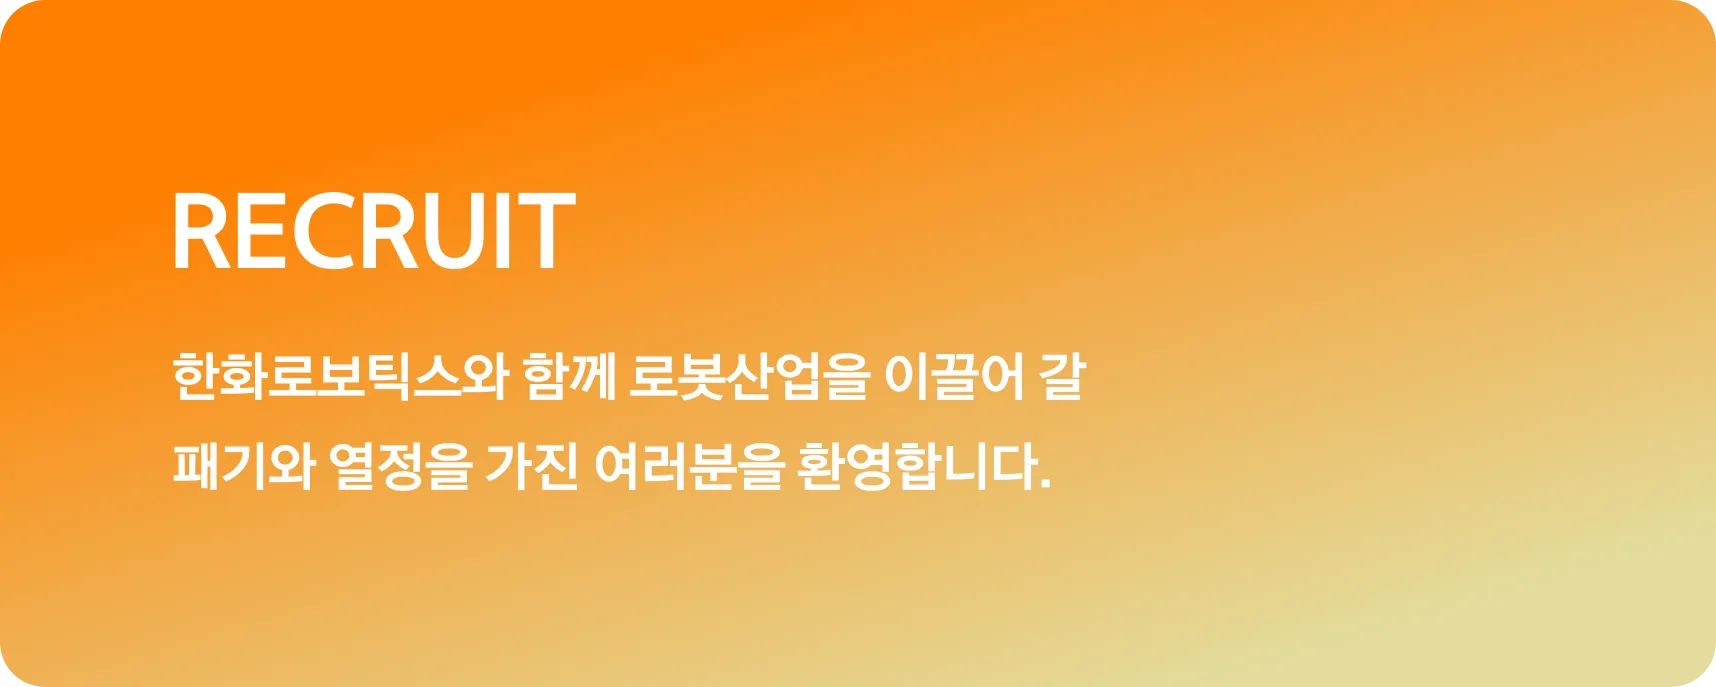
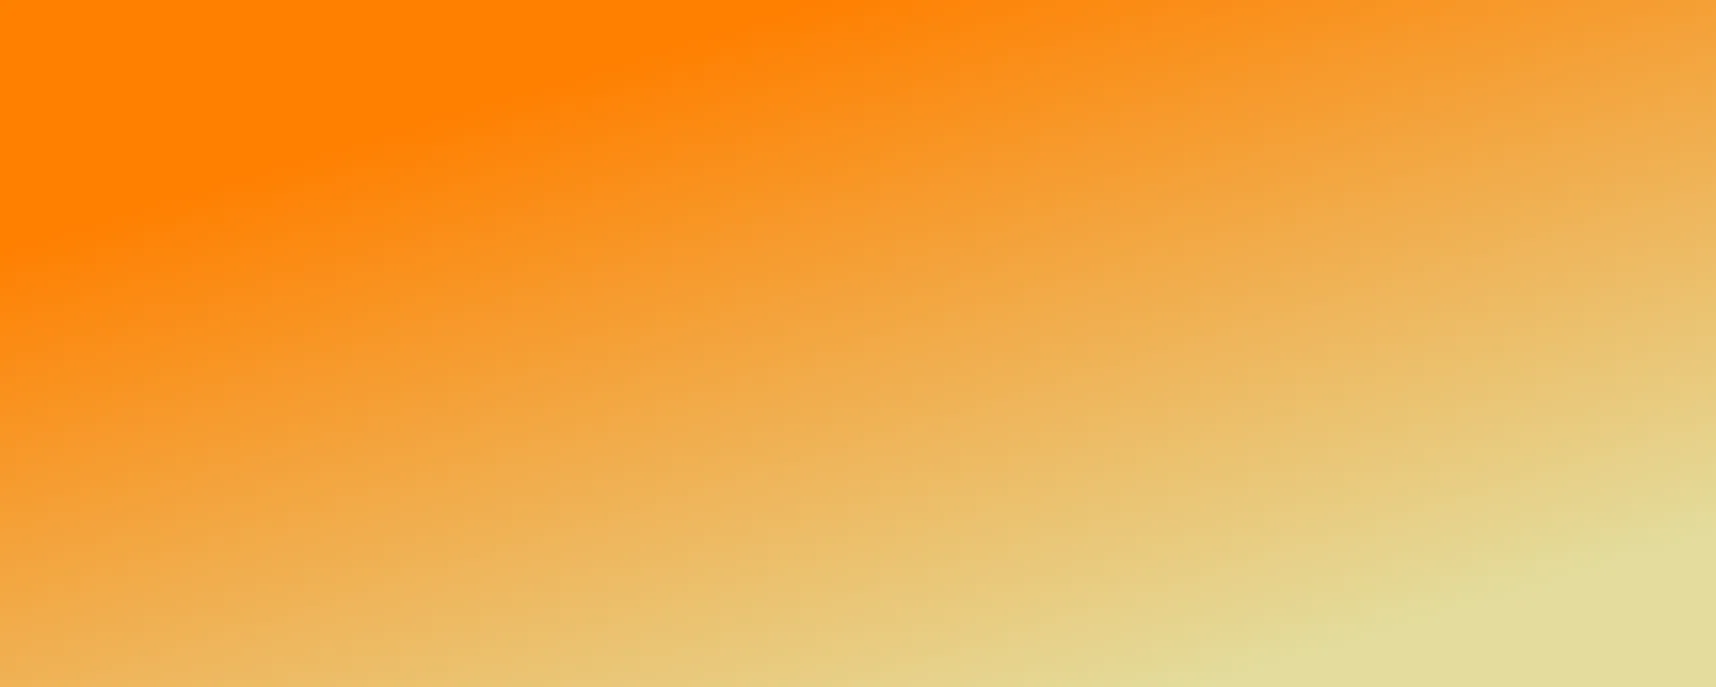
https://jamboard.google.com/d/1tE0j6SCUVp7XpFa0wslZ5P2rrRnvqn0ifwVeByoxUW8/viewer?f=1 수정

diff --git a/kr/css/main.css b/kr/css/main.css
@@ -305,19 +305,54 @@ header .more_btn  a.distributor {
 	width: 30%;
 	/* height: 229px; */
 	/* padding: 0 0 19% 0; */
+	border-radius: 10px;
 	background: url('../images/pc/bg_recruit_banner.webp') no-repeat 0 0/100% 100%;
 }
 
 
 .section3 .recruit a {
-	display: block;
+	display: flex;
+	flex-direction: column;
+	justify-content: center;
 	width: 100%;
-	/* height: 100%; */
-	padding-bottom: 40%;
+	padding: 0 0 0 57px;
 	background: url('../images/pc/ic_round_recruit.svg') no-repeat 90% 50%;
 	background-size: 74px 74px;
+	box-sizing: border-box;
 }
 
+.section3 .recruit a strong {
+	display: block;
+  font-family: HanwhaGothicB_OTF;
+  font-size: 34px;
+  line-height: 1.29;
+  letter-spacing: 1.02px;
+  text-align: left;
+  color: #fff;
+}
+
+.section3 .recruit a span {
+	display: block;
+	margin-top: 4px;
+  font-family: HanwhaGothicB_OTF;
+  font-size: 18px;
+  line-height: 1.67;
+  text-align: left;
+  color: #fff;
+}
+
+.section3 .recruit a span.pc {
+	display: block;
+	visibility: visible;
+	overflow: auto;
+	height: auto;
+}
+.section3 .recruit a span.tablet {
+	display: none;
+	visibility: visible;
+	overflow: auto;
+	height: auto;
+}
 .section3 .section3_inner {
 	display: flex;
 	flex-direction: row;
@@ -388,6 +423,145 @@ header .more_btn  a.distributor {
   color: #000;
 }
 
+@media (max-width: 1830px) {
+
+	.section3 .recruit a {
+		display: flex;
+		flex-direction: column;
+		justify-content: center;
+		width: 100%;
+		padding: 0 0 0 37px;
+		background: url('../images/pc/ic_round_recruit.svg') no-repeat 90% 50%;
+		background-size: 74px 74px;
+		box-sizing: border-box;
+	}
+
+	.section3 .recruit a strong {
+		display: block;
+		font-family: HanwhaGothicB_OTF;
+		font-size: 30px;
+		line-height: 1.29;
+		letter-spacing: 1.02px;
+		text-align: left;
+		color: #fff;
+	}
+
+	.section3 .recruit a span {
+		display: block;
+		margin-top: 4px;
+		font-family: HanwhaGothicB_OTF;
+		font-size: 16px;
+		line-height: 1.67;
+		text-align: left;
+		color: #fff;
+	}
+
+}
+
+@media (max-width: 1600px) {
+
+	.section3 .recruit a {
+		display: flex;
+		flex-direction: column;
+		justify-content: center;
+		width: 100%;
+		padding: 0 0 0 27px;
+		background: url('../images/pc/ic_round_recruit.svg') no-repeat 90% 50%;
+		background-size: 64px 64px;
+		box-sizing: border-box;
+	}
+
+	.section3 .recruit a strong {
+		display: block;
+		font-family: HanwhaGothicB_OTF;
+		font-size: 26px;
+		line-height: 1.29;
+		letter-spacing: 1.02px;
+		text-align: left;
+		color: #fff;
+	}
+
+	.section3 .recruit a span {
+		display: block;
+		margin-top: 4px;
+		font-family: HanwhaGothicB_OTF;
+		font-size: 14px;
+		line-height: 1.67;
+		text-align: left;
+		color: #fff;
+	}
+
+}
+
+@media (max-width: 1385px) {
+
+	.section3 .recruit a {
+		display: flex;
+		flex-direction: column;
+		justify-content: center;
+		width: 100%;
+		padding: 0 0 0 20px;
+		background: url('../images/pc/ic_round_recruit.svg') no-repeat 90% 50%;
+		background-size: 44px 44px;
+		box-sizing: border-box;
+	}
+
+	.section3 .recruit a strong {
+		display: block;
+		font-family: HanwhaGothicB_OTF;
+		font-size: 24px;
+		line-height: 1.29;
+		letter-spacing: 1.02px;
+		text-align: left;
+		color: #fff;
+	}
+
+	.section3 .recruit a span {
+		display: block;
+		margin-top: 4px;
+		font-family: HanwhaGothicB_OTF;
+		font-size: 14px;
+		line-height: 1.67;
+		text-align: left;
+		color: #fff;
+	}
+
+}
+
+@media (max-width: 1280px) {
+
+	.section3 .recruit a {
+		display: flex;
+		flex-direction: column;
+		justify-content: center;
+		width: 100%;
+		padding: 0 0 0 15px;
+		background: url('../images/pc/ic_round_recruit.svg') no-repeat 90% 50%;
+		background-size: 44px 44px;
+		box-sizing: border-box;
+	}
+
+	.section3 .recruit a strong {
+		display: block;
+		font-family: HanwhaGothicB_OTF;
+		font-size: 22px;
+		line-height: 1.29;
+		letter-spacing: 1.02px;
+		text-align: left;
+		color: #fff;
+	}
+
+	.section3 .recruit a span {
+		display: block;
+		margin-top: 4px;
+		font-family: HanwhaGothicB_OTF;
+		font-size: 13px;
+		line-height: 1.67;
+		text-align: left;
+		color: #fff;
+	}
+
+}
 
 @media (max-width: 1500px) {
 
@@ -497,7 +671,7 @@ header .more_btn  a.distributor {
 		margin: 0 auto 0;
 		margin: 50px auto 0;
 		padding: 0 15px;
-		gap: 0;
+		gap: 40px !important;
 	}
 
 	.section3 .board_wrap .board .title {
@@ -537,18 +711,37 @@ header .more_btn  a.distributor {
 	.section3 .recruit {
 		display: flex;
 		width: 100% !important;
+		height: 100%;
 		margin-top: 0;
-		padding-bottom: 7%;
-		background: url('../images/mobile/bg_recruit_banner.svg') no-repeat 0 0/100% !important;
+		padding-bottom: 0;
+		background: url('../images/tablet/bg_recruit_banner.webp') no-repeat 0 0/100% 100% !important;
 	}
 
 	.section3 .recruit a {
-		display: block;
-		width: 100%;
-		height: 100%;
+		display: flex;
+		justify-content: center;
+		padding: 39px 38px 42px 38px !important;
 		background: none !important;
 	}
 
+	.section3 .recruit a strong {
+		display: block !important;
+	}
+	.section3 .recruit a span.pc {
+		display: block !important;
+
+		font-family: HanwhaGothicB_OTF;
+		font-size: 17px;
+		line-height: 1.53;
+		color: #fff;
+	}
+	.section3 .recruit a span.tablet {
+		display: none !important;
+	}
+
+	.section3 .recruit a span.pc br {
+		display: none;
+	}
 	.section2 .box .detail {
 		display: none;
 	}
@@ -1041,14 +1234,40 @@ header .more_btn  a.distributor {
 	.section3 .board_wrap .board .list {
 		padding-left: 73px;
 	}
+
 	.section3 .recruit {
 		width: 60%;
-	}
-	.section3 .recruit {
 		background: url('../images/tablet/bg_recruit_banner.webp') no-repeat 0 0/100% 100%;
 	}
 	.section3 .recruit a {
+		justify-content: flex-start;
+		padding: 65px 0 0 55px;
 		background: url(../images/pc/ic_round_recruit.svg) no-repeat 90% 85%;
+	}
+	.section3 .recruit a span.pc {
+		display: none;
+	}
+	.section3 .recruit a span.tablet {
+		display: block;
+	}
+	.section3 .recruit a strong {
+		display: block;
+		font-family: HanwhaGothicB_OTF;
+		font-size: 34px;
+		line-height: 1.29;
+		letter-spacing: 1.02px;
+		text-align: left;
+		color: #fff;
+	}
+
+	.section3 .recruit a span {
+		display: block;
+		margin-top: 10px;
+		font-family: HanwhaGothicB_OTF;
+		font-size: 18px;
+		line-height: 1.67;
+		text-align: left;
+		color: #fff;
 	}
 	footer .address {
 		font-size: 15px;
@@ -1089,7 +1308,7 @@ header .more_btn  a.distributor {
 	}
 
 	.main .tablet {
-		padding: 0 50px;
+		/* padding: 0 50px; */
 	}
 
 	header .logo .txt {
@@ -1164,6 +1383,36 @@ header .more_btn  a.distributor {
 		background-size: 24px 20px;
 	}
 
+	.section3 .recruit a {
+		justify-content: flex-start;
+		padding: 65px 0 0 20px;
+		background: url(../images/pc/ic_round_recruit.svg) no-repeat 90% 85%;
+	}
+	.section3 .recruit a span.pc {
+		display: none;
+	}
+	.section3 .recruit a span.tablet {
+		display: block;
+	}
+	.section3 .recruit a strong {
+		display: block;
+		font-family: HanwhaGothicB_OTF;
+		font-size: 30px;
+		line-height: 1.29;
+		letter-spacing: 1.02px;
+		text-align: left;
+		color: #fff;
+	}
+
+	.section3 .recruit a span {
+		display: block;
+		margin-top: 10px;
+		font-family: HanwhaGothicB_OTF;
+		font-size: 15px;
+		line-height: 1.67;
+		text-align: left;
+		color: #fff;
+	}
 	footer {
 		z-index: 3;
 		position: relative;

diff --git a/kr/index.html b/kr/index.html
@@ -208,9 +208,13 @@
             </div>
           </div>
         </section>
-        
+
         <div class="recruit">
-          <a href="#"></a>
+          <a href="#">
+            <strong>RECRUIT</strong>
+            <span class="pc">한화로보틱스와 함께 로봇산업을 이끌어 갈<br />패기와 열정을 가진 여러분을 환영합니다.</span>
+            <span class="tablet">한화로보틱스와 함께<br />로봇산업을 이끌어 갈<br />패기와 열정을 가진 여러분을<br />환영합니다.</span>
+          </a>
         </div>
       </section>
     </section>
